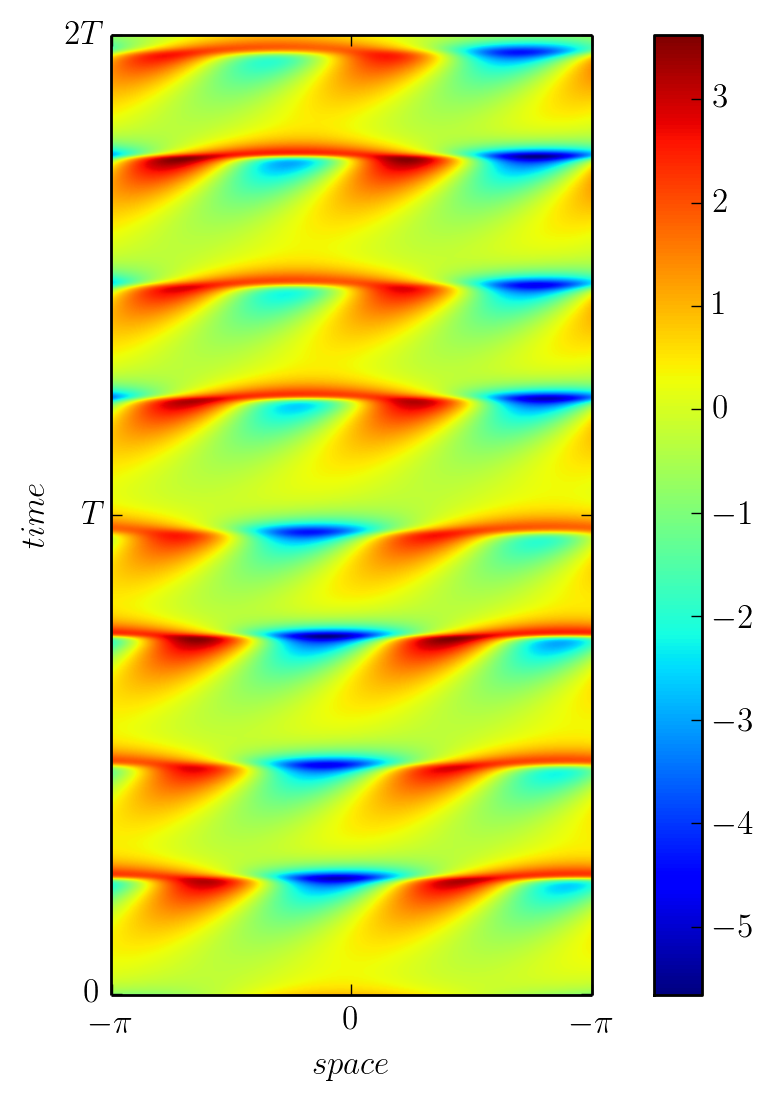
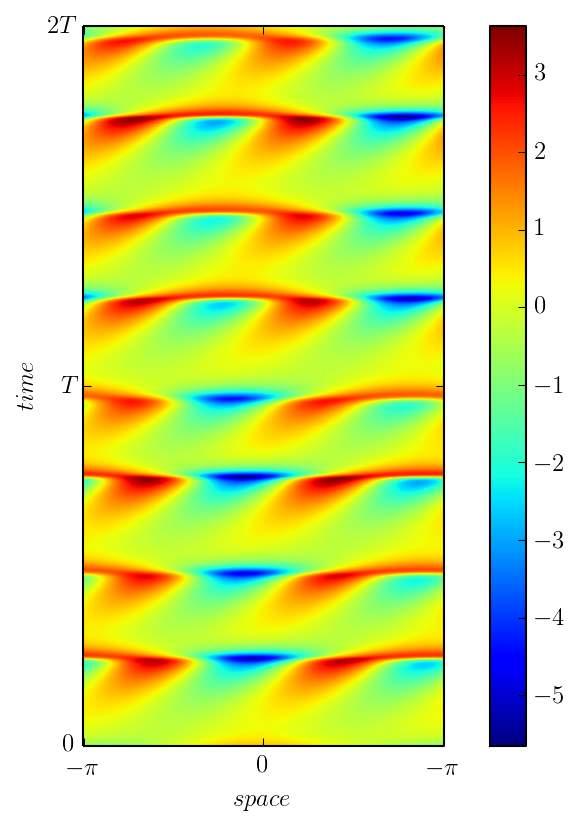
ignore

diff --git a/blog/burak/PorterKnobloch/python/plotrpo.py b/blog/burak/PorterKnobloch/python/plotrpo.py
@@ -150,7 +150,7 @@ for i in range(1,int(np.max(group))+1):
 	#ax.set_yticklabels(["%.2f" % ytick for ytick in ttickt])
 	
 	fname = 'image/' + itinerary[0] + 'conf.png'
-	savefig(fname, bbox_inches='tight', dpi=200)
+	savefig(fname, bbox_inches='tight', dpi=150)
 
 	#plt.show()	
 	#raw_input("Press Enter to continue...")
